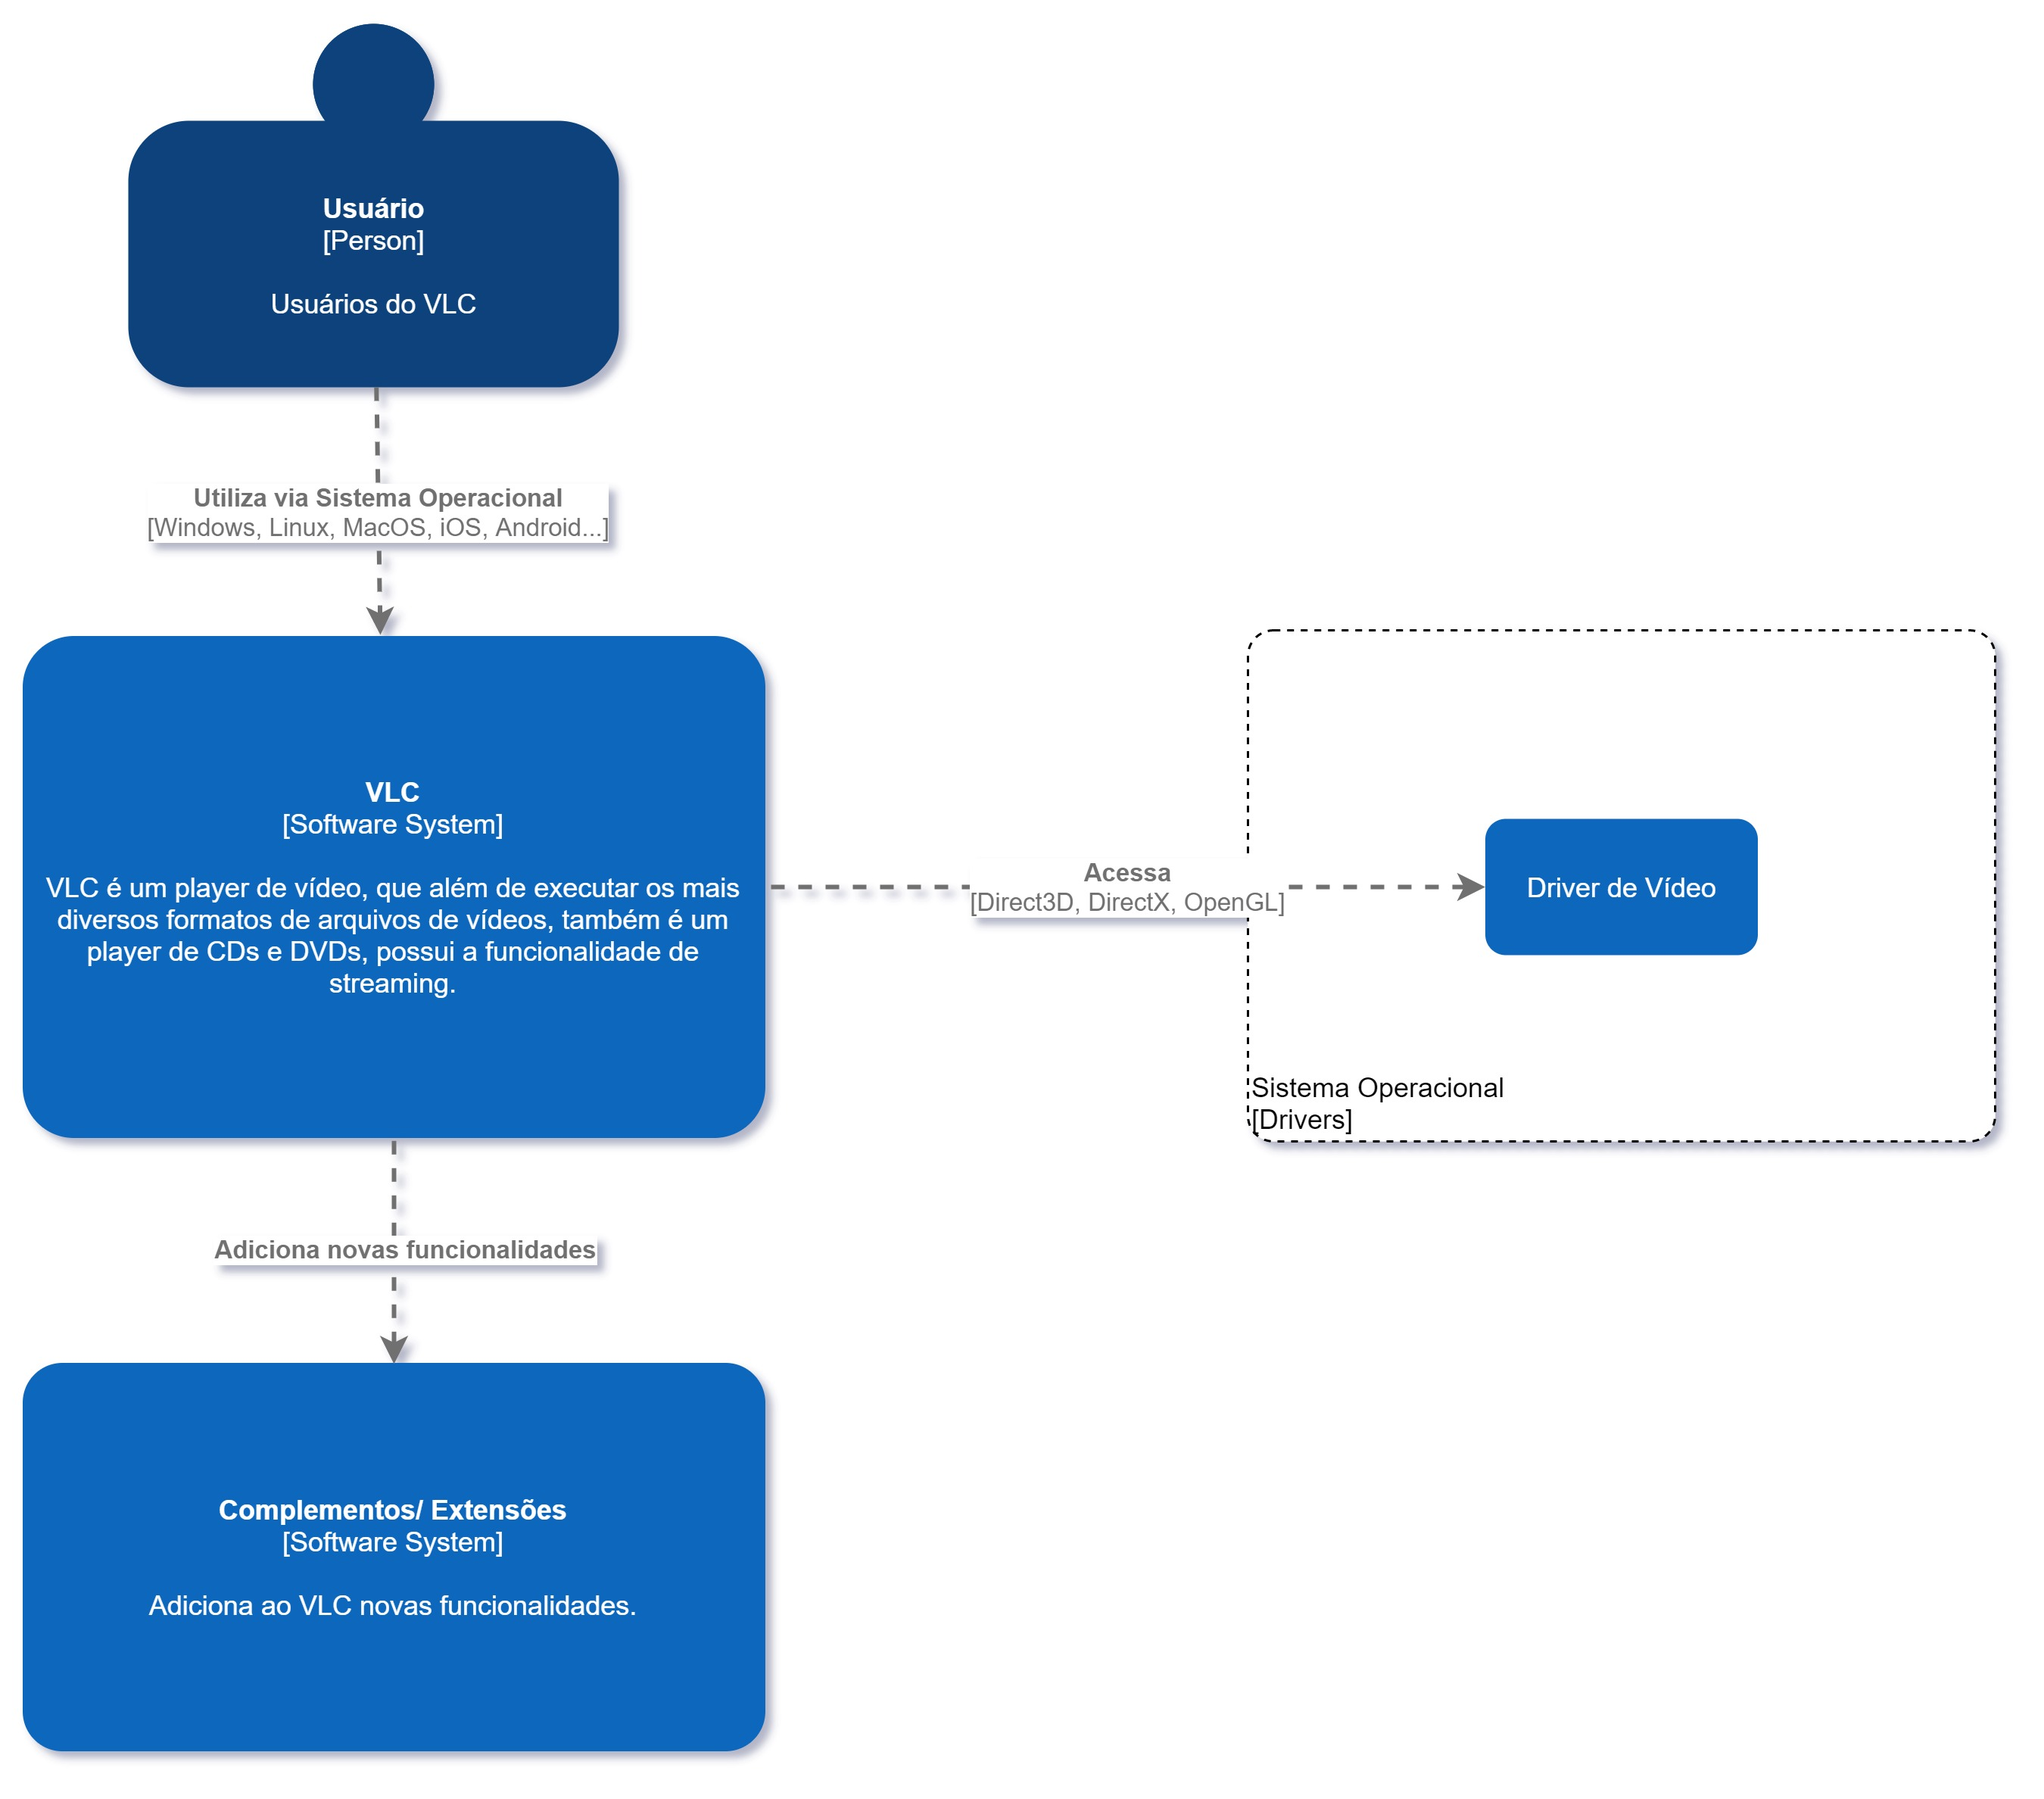
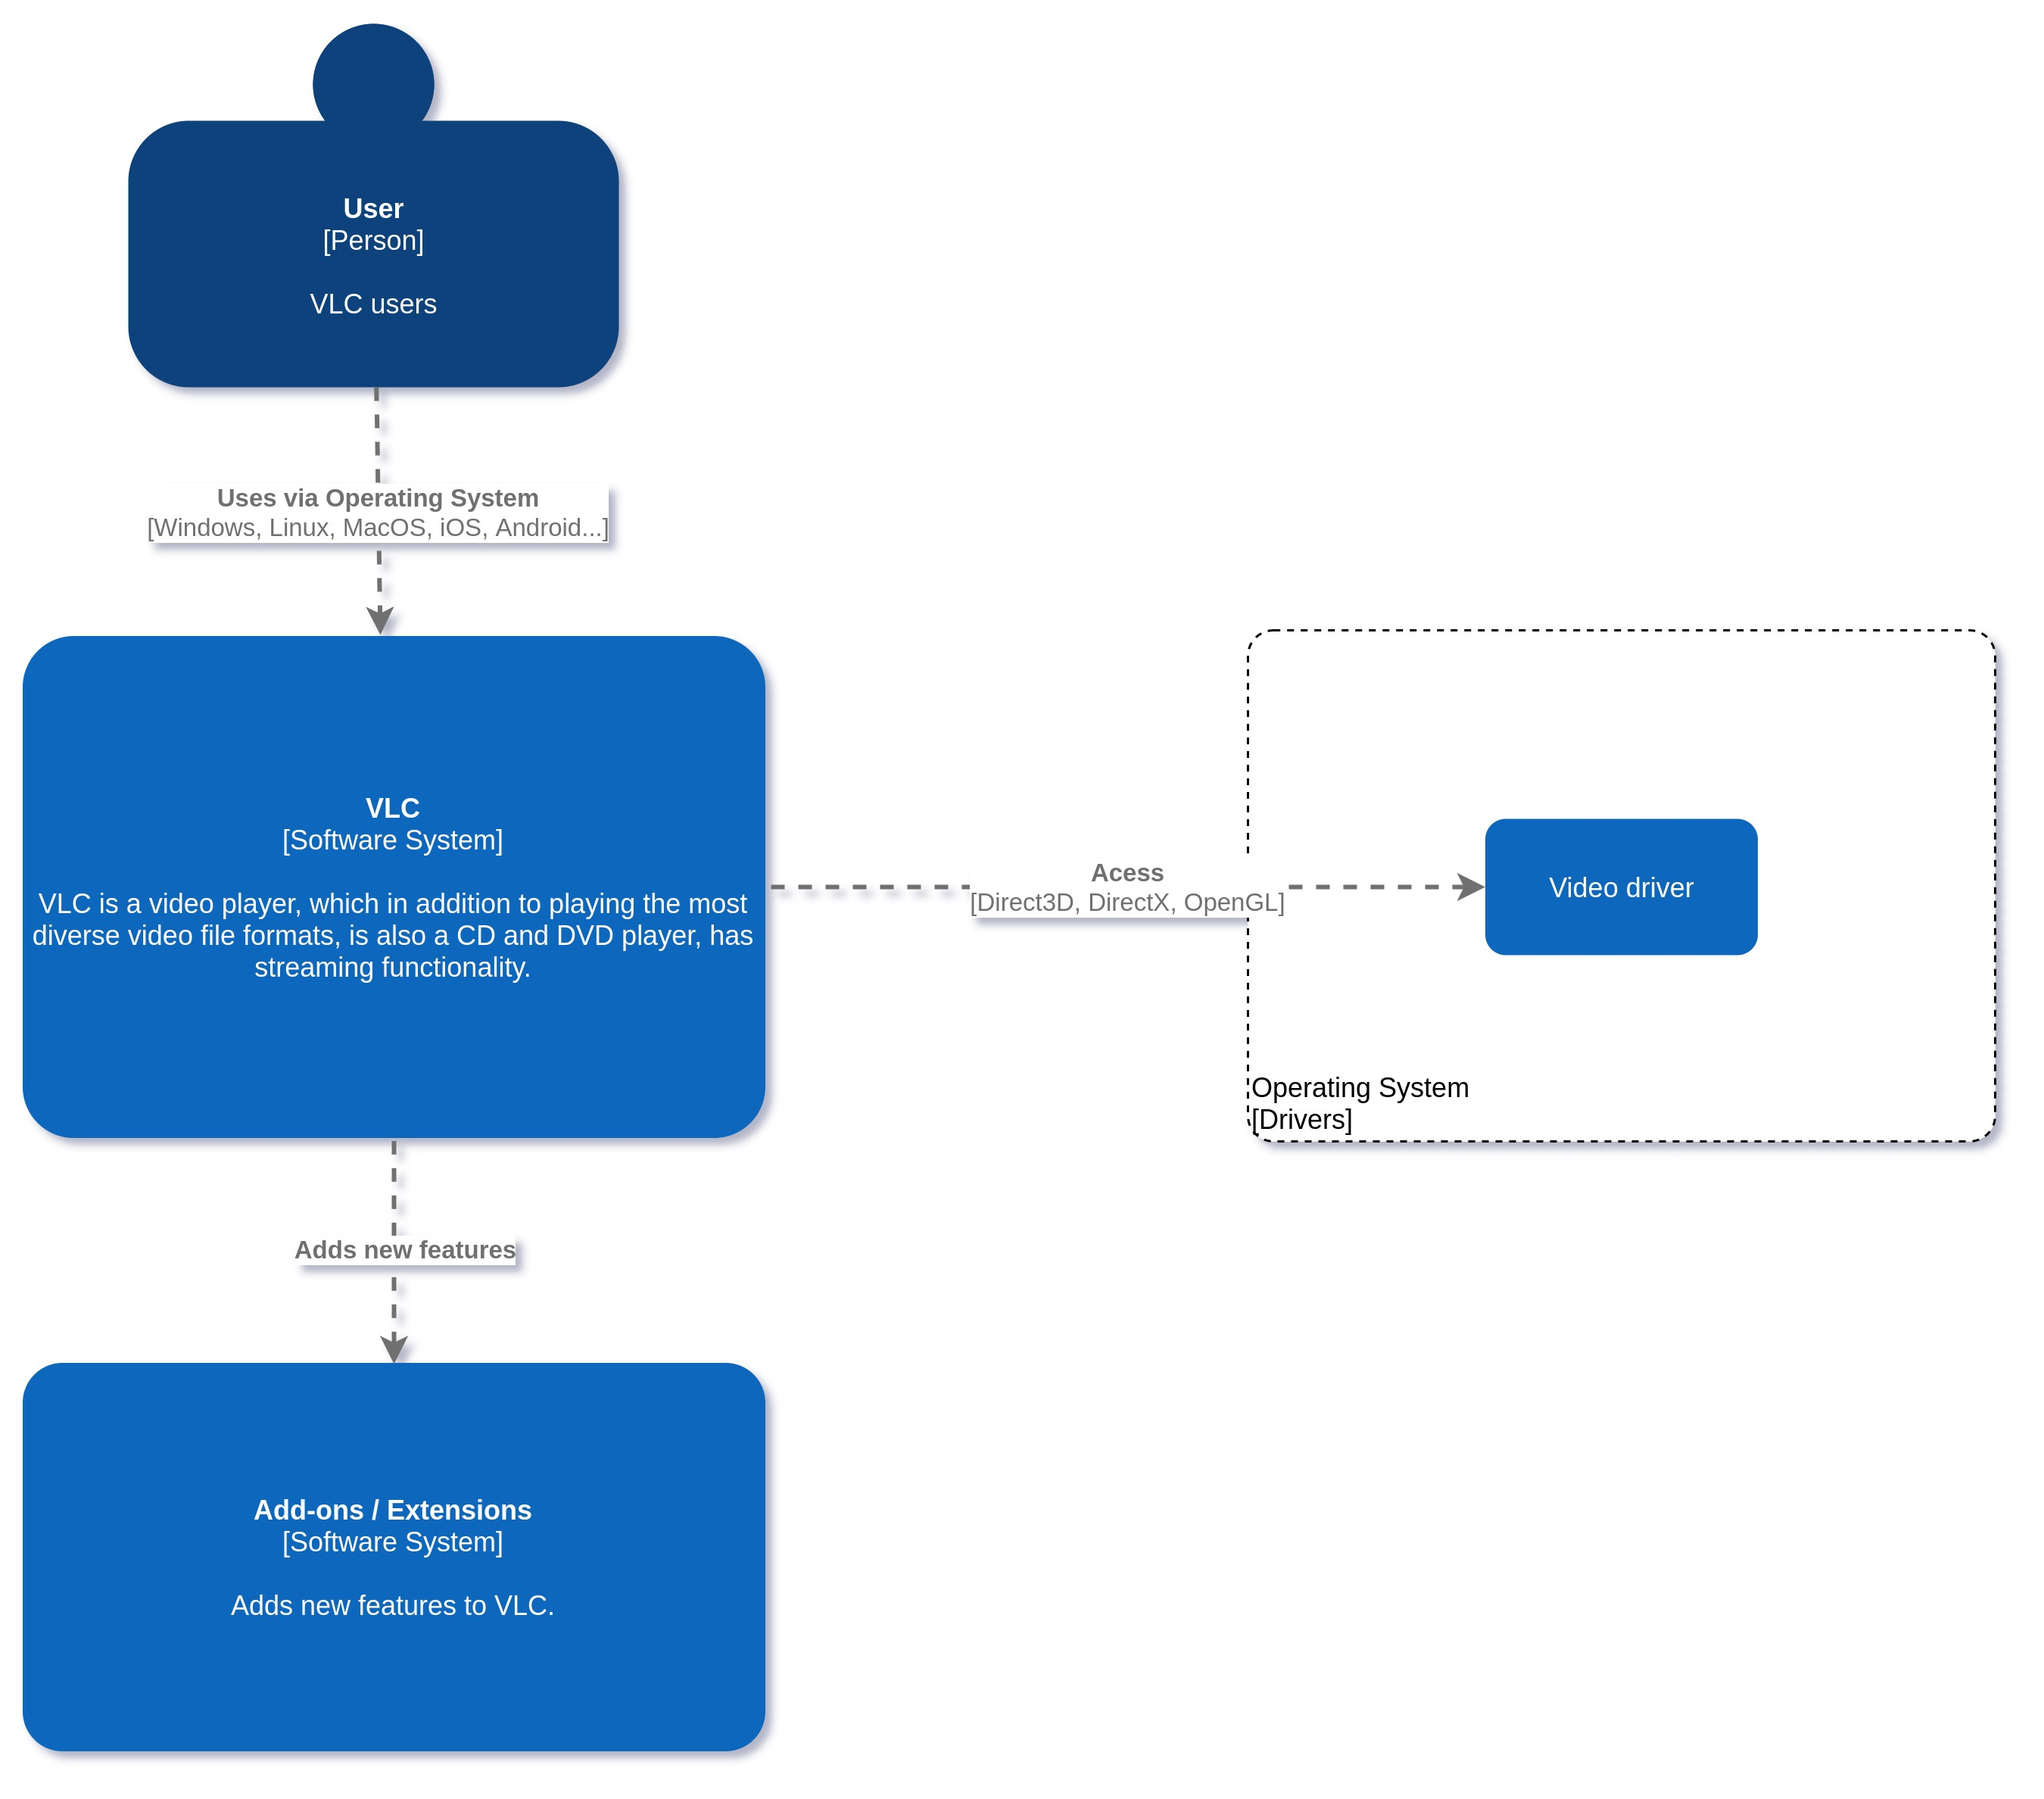
adicionando diagrama de containers

diff --git a/content/posts/vlc.md b/content/posts/vlc.md
@@ -20,7 +20,10 @@ Este documento foi produzido por Higor Santos de Brito Dantas.
 - Contato: higor.dantas@ccc.ufcg.edu.br
 - Projeto documentado: https://github.com/videolan/vlc
 
-# Descrição Arquitetural -- VLC
+<div style="display: flex; flex-direction: row; align-items: center;">
+  <img src="icon2.png" style="width: 60px; box-shadow: none; margin-right: 30px">
+  <h1>Descrição Arquitetural – VLC</h1>
+</div>
 
 Este documento descreve parte da arquitetura do projeto [VLC](https://github.com/videolan/vlc). Essa descrição foi baseada principalmente no modelo [C4](https://c4model.com/).
 
@@ -50,7 +53,11 @@ Além disso, o VLC, por ser um reprodutor de áudios/vídeos, necessita conversa
 
 ### Containers
 
-> TODO
+Inicialmente, o usuário interage diretamente com a interface do VLC que dependendo o sistema operacional utilizado a tecnologia pode variar. Por exemplo, desde a versão `0.9.0`, as interfaces do aplicativo para Windows e Linux utilizam a biblioteca [Qt](https://pt.wikipedia.org/wiki/Qt), antes era utilizado a [wxWidgets](https://pt.wikipedia.org/wiki/WxWidgets). Além disso, é possível adicionar temas que podem ser baixados e adicionados para personalizar a interface (não disponível para MacOS).  
+A GUI vai se comunicar com o libVLCcore que é o núcleo da aplicação, ele quem realiza os gerenciamentos de threads, os módulos, como os codecs, os relógios etc. Inclusive, um exemplo dado pela própria documentação, é o núcleo que realiza a sincronização das faixas de áudio, vídeo e legenda. Além disso, existe a libVLC que é uma biblioteca que dá suporte a muitas das funcionalidades do aplicativo e que pode ser utilizada por terceiros para utilizar as mesmas funções empregadas no núcleo, que a utiliza para dar suporte e modularizar as funcionalidades da melhor maneira possível.  
+A modularização foi uma técnica bastante aplicada no desenvolvimento da ferramenta, tanto que o container Módulos é onde se localizam as principais funcionalidades, e os módulos necessitam interagir com a libVLCcore para acessar o núcleo da aplicação e conseguir realizar suas funções.
+
+![Diagrama de Containers](diagrama-de-container.jpg)
 
 ### Componentes
 
